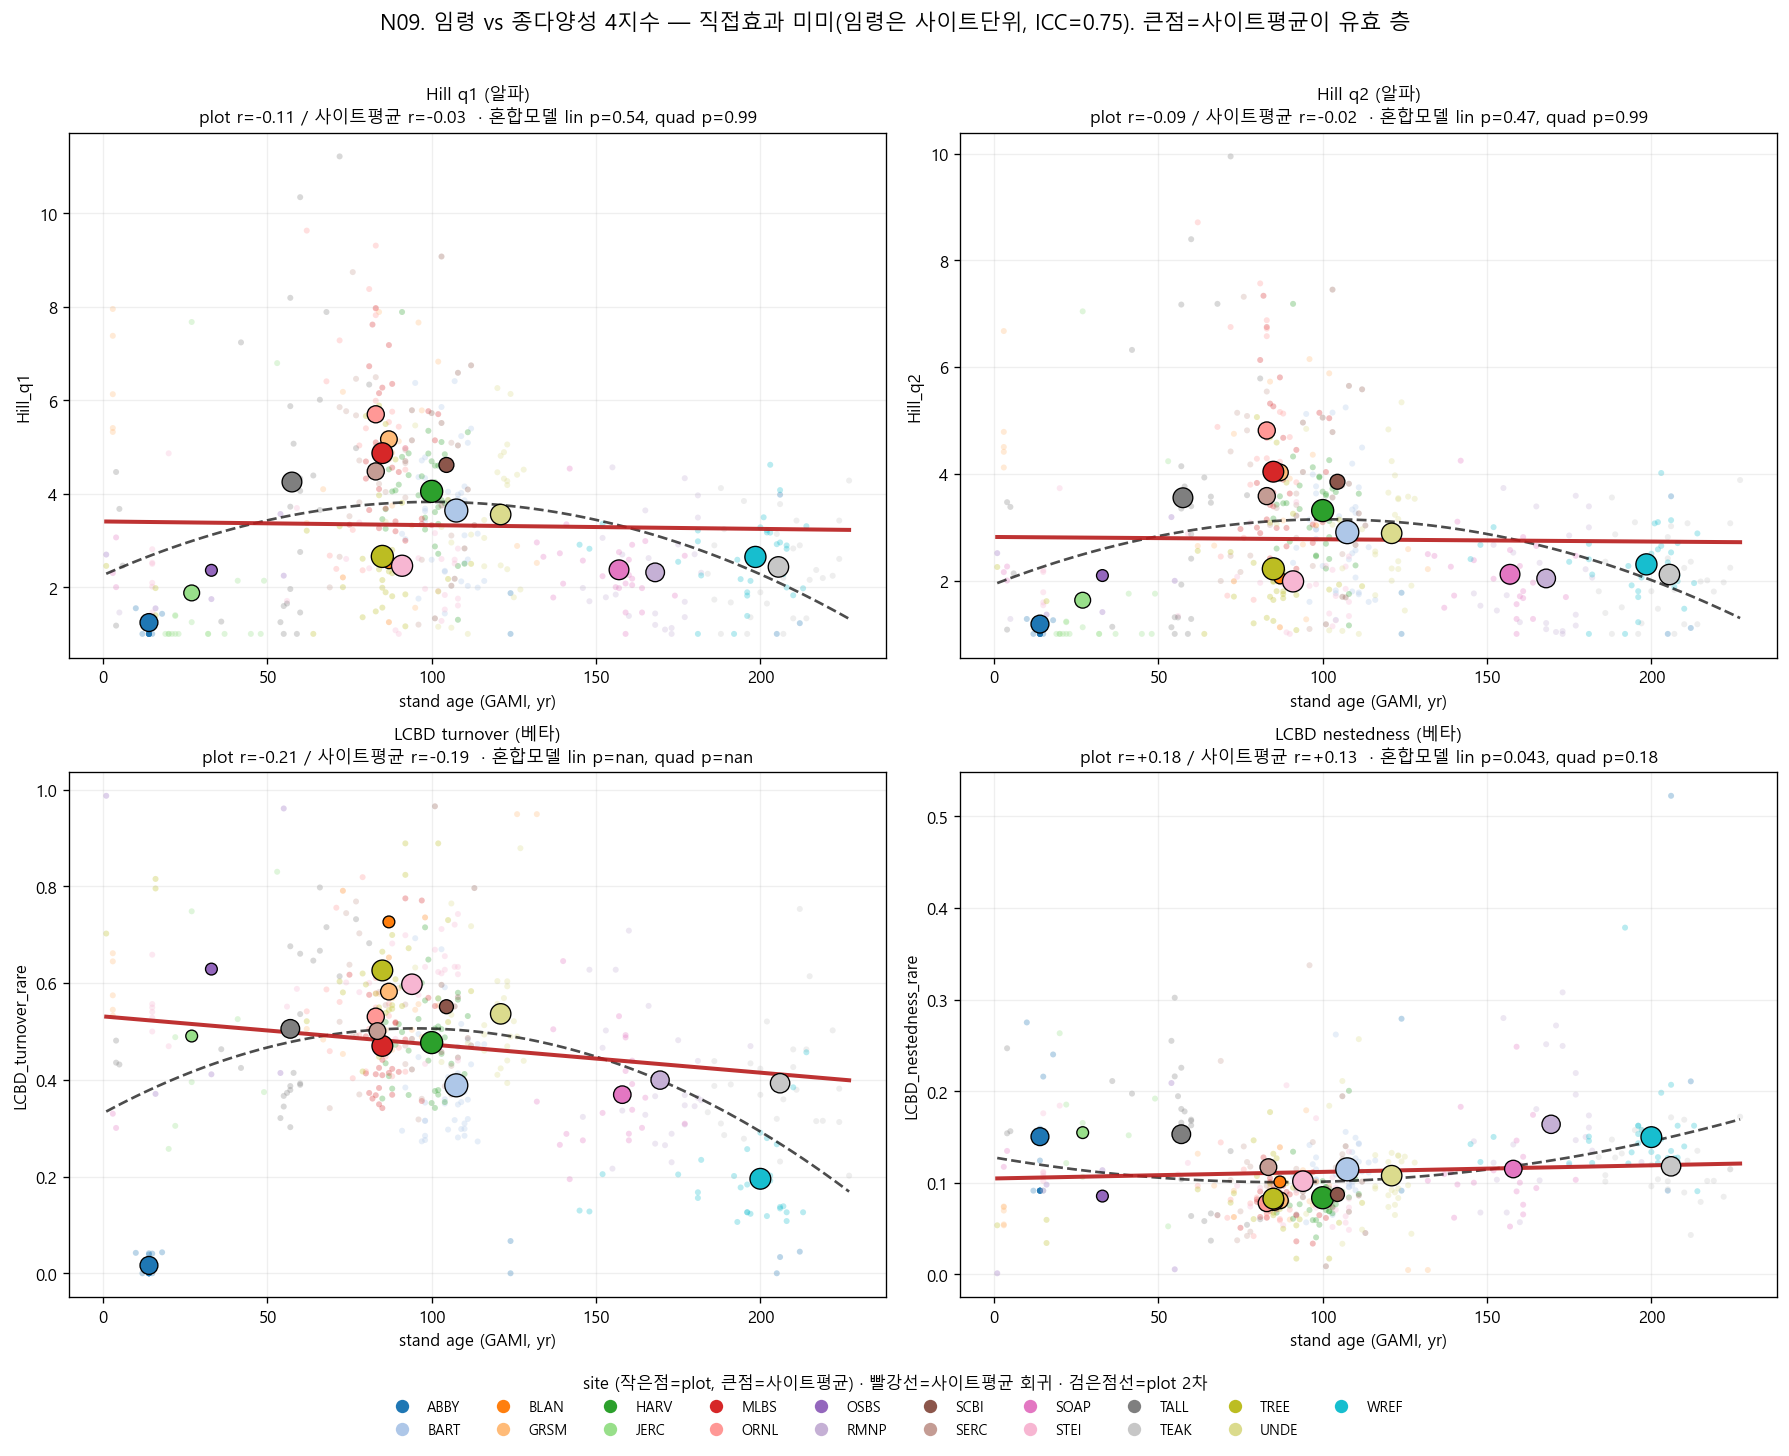
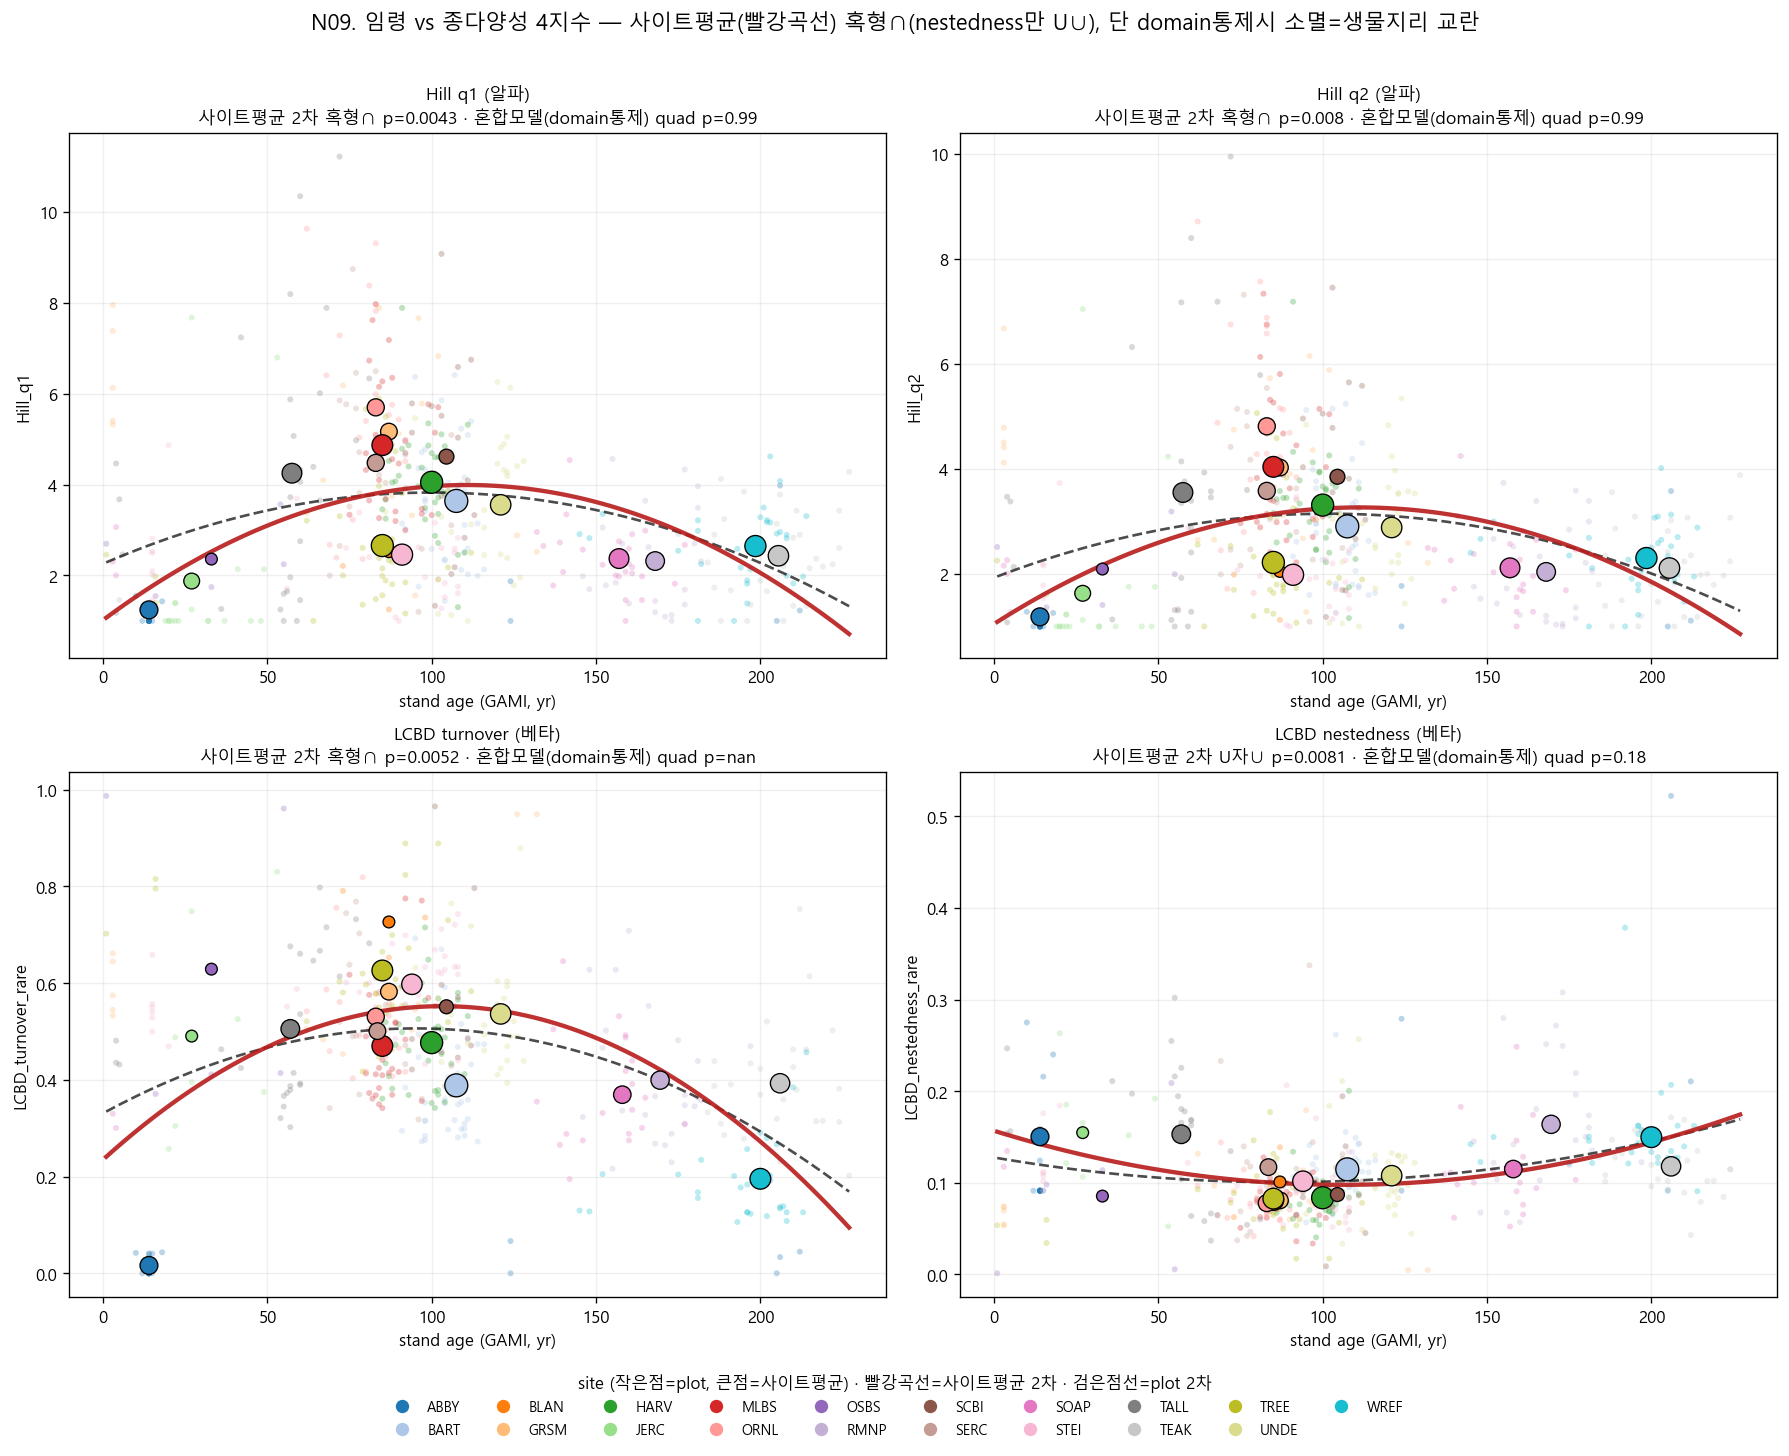
N09: quadratic site-mean curve reveals diversity-age hump (biogeographic confound)
Hill q1/q2 and turnover show a hump (inverted-U) in age: peak at intermediate
age, significant at plot (p<1e-10) and site-mean (n=19, p<0.01) levels;
nestedness is the inverse (U-shape). BUT the hump vanishes under domain
control (mixed quad p=0.99) - it is a biogeographic confound (mid-age =
eastern high-diversity deciduous ~85-110yr; ends = young managed + old western
conifer, both low diversity), not a clean successional effect. Red line in N09
changed from linear to site-mean quadratic. Contrast: Obj3 DHI hump is robust.

diff --git a/NEON_v2/scripts/obj23/145_age_diversity_scatter.py b/NEON_v2/scripts/obj23/145_age_diversity_scatter.py
@@ -37,17 +37,19 @@ for ax,(dv,dl) in zip(axes.ravel(),DIV):
     g=d.groupby('siteID').agg(age=(A,'median'),div=(dv,'mean'),n=(dv,'size')).reset_index()
     ax.scatter(g['age'].values,g['div'].values,s=np.clip(g['n'].values*5,50,320),
                c=[scol[s] for s in g['siteID'].values],edgecolors='k',lw=.8,zorder=4)
-    # bivariate quadratic curve (plot-level)
+    # plot-level quadratic (black dashed)
     xx=np.linspace(d[A].min(),d[A].max(),100); cf=np.polyfit(d[A],d[dv],2); ax.plot(xx,np.polyval(cf,xx),'k--',lw=1.6,alpha=.7)
-    # between-site line (through site means) = meaningful level
-    slb,icb,rb,pb,_=st.linregress(g['age'],g['div']); ax.plot(xx,icb+slb*xx,'-',color='#b71c1c',lw=2.4,alpha=.9)
-    r_all=st.pearsonr(d[A],d[dv])[0]
+    # between-site QUADRATIC through site means (red curve) = meaningful level
+    cfb=np.polyfit(g['age'],g['div'],2); ax.plot(xx,np.polyval(cfb,xx),'-',color='#b71c1c',lw=2.6,alpha=.9)
+    gg=g.rename(columns={'div':'yy'}).copy(); gg['za']=(gg['age']-gg['age'].mean())/gg['age'].std()
+    ob=smf.ols("yy ~ za + I(za**2)",gg).fit(); sq=ob.pvalues['I(za ** 2)']; sqb=ob.params['I(za ** 2)']
     pl,pq=mixed_lin_quad(df,dv)
-    ax.set_title(f"{dl}\nplot r={r_all:+.2f} / 사이트평균 r={rb:+.2f}  · 혼합모델 lin p={pl:.2g}, quad p={pq:.2g}",fontsize=10.5)
+    shape='혹형∩' if sqb<0 else 'U자∪'
+    ax.set_title(f"{dl}\n사이트평균 2차 {shape} p={sq:.2g} · 혼합모델(domain통제) quad p={pq:.2g}",fontsize=10.5)
     ax.set_xlabel("stand age (GAMI, yr)"); ax.set_ylabel(dv); ax.grid(alpha=.2)
 sh=[Line2D([0],[0],marker='o',ls='',mfc=scol[s],mec='none',ms=8,label=s) for s in sites]
 fig.legend(handles=sh,loc='lower center',ncol=10,fontsize=8.5,frameon=False,
-           title="site (작은점=plot, 큰점=사이트평균) · 빨강선=사이트평균 회귀 · 검은점선=plot 2차",bbox_to_anchor=(0.5,-0.02))
-fig.suptitle("N09. 임령 vs 종다양성 4지수 — 직접효과 미미(임령은 사이트단위, ICC=0.75). 큰점=사이트평균이 유효 층",fontsize=13)
+           title="site (작은점=plot, 큰점=사이트평균) · 빨강곡선=사이트평균 2차 · 검은점선=plot 2차",bbox_to_anchor=(0.5,-0.02))
+fig.suptitle("N09. 임령 vs 종다양성 4지수 — 사이트평균(빨강곡선) 혹형∩(nestedness만 U∪), 단 domain통제시 소멸=생물지리 교란",fontsize=13)
 fig.tight_layout(rect=[0,0.04,1,0.97]); fig.savefig(f"{F}/N09_age_vs_diversity.png",dpi=120,bbox_inches='tight'); plt.close()
 print("saved N09_age_vs_diversity.png")

diff --git a/NEON_v2/docs/03_OBJECTIVES_COMPLETE.md b/NEON_v2/docs/03_OBJECTIVES_COMPLETE.md
@@ -47,7 +47,7 @@
 
 ### 축 ③ 천이·임분연령 (시간 맥락) — 신규, ★임령은 여기
 상세 `04_SUCCESSION_STANDAGE.md`. 임령 = **GAMI 100m**(진짜 임령 1–227, 218GB NetCDF lazy 추출) + **Global 30m**(≤40 포화=recency proxy, 교차검증 젊은층 ρ=0.57).
-- **(i) 임령 직접효과 없음** — 임령이 다양성 *수준*을 정하진 않음.
+- **(i) 임령 직접효과: 선형 없음, 혹형(∩)은 있으나 생물지리 교란** — Hill/turnover 중간연령 최대(사이트평균 2차 p<0.01, nestedness는 U자∪), 단 domain 통제 시 소멸(중간연령=동부 고다양성 낙엽수). 순수 임령효과 아님(Obj3 DHI혹형은 통제 후 견고와 대조).
 - **(ii) 임령이 RS–다양성 커플링 조절 — 11/19 유의 전부 음**(SAVI·EVI·LAI·VCI × age): **젊은 임분서 커플링 강, 성숙할수록 캐노피 포화·디커플링.**
 - **(iii) 복잡화 속도가 임령에 따라 다름**: 젊을수록 VCI·LAI trend 큼(빠른 축적), 노령림은 Deep_Gap trend 양(갭-단계 동태).
 - **Obj2 통합 논리**: 임령 조절 = 축①의 **recency×RS 조절과 동일 메커니즘의 다른 시간척도**(교란 recency 수년 ↔ 천이 임령 수십~수백년). 30m 임령이 recency로 포화되는 것이 이를 방증.